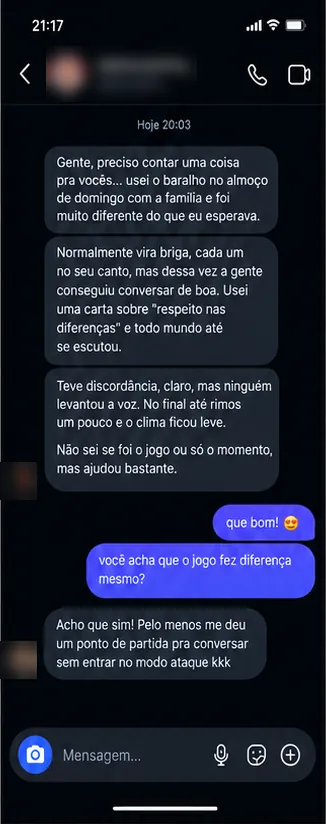
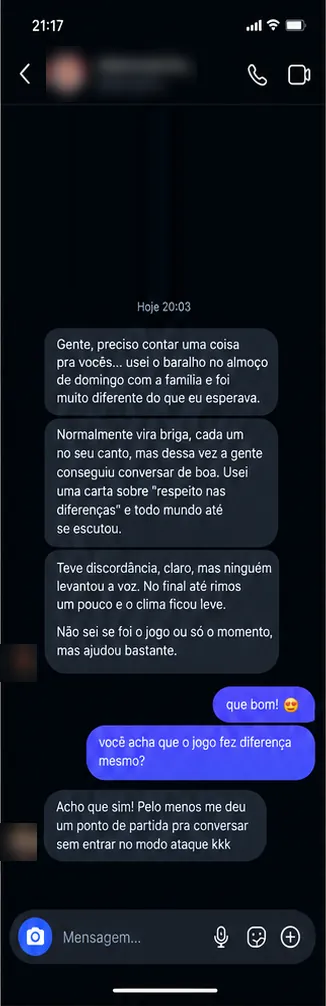
Deixa só 3 prints na seção, todos com a mesma largura
Os prints 1 e 2 ganharam área vazia do chat abaixo do cabeçalho para ficar na
mesma proporção do 3, sem distorcer nem cortar mensagens.

Claude-Session: https://claude.ai/code/session_01HueySAAsoWs1iAqdewjjpw

diff --git a/index.html b/index.html
@@ -15,14 +15,12 @@ details summary::-webkit-details-marker{display:none}
 </style>
 <style>[hidden]{display:none!important}button{-webkit-appearance:none;appearance:none}</style>
 <style>
-.prints{display:flex;gap:16px;overflow-x:auto;scroll-snap-type:x mandatory;-webkit-overflow-scrolling:touch;overscroll-behavior-x:contain;margin:0 -20px;padding:4px 20px 18px;list-style:none;scroll-padding:0 20px;scrollbar-width:thin;scrollbar-color:#16161A transparent}
-.prints>li{flex:0 0 auto;scroll-snap-align:start}
+.prints{display:flex;gap:16px;overflow-x:auto;scroll-snap-type:x mandatory;-webkit-overflow-scrolling:touch;overscroll-behavior-x:contain;margin:0 -20px;padding:4px 20px 18px;list-style:none;scroll-padding:0 20px;scrollbar-width:none}
+.prints::-webkit-scrollbar{display:none}
+.prints>li{flex:0 0 76%;max-width:300px;scroll-snap-align:start}
 .print-card{margin:0;background:#FFFFFF;border:2px solid #16161A;border-radius:16px;box-shadow:5px 5px 0 #16161A;padding:8px}
-.print-card img{display:block;height:clamp(440px,74vh,680px);width:auto;max-width:none;border-radius:10px;background:#0E0E12}
-.prints-nav{display:none;gap:10px}
-.prints-nav button{width:48px;height:48px;border:2px solid #16161A;border-radius:999px;background:#FFFFFF;color:#16161A;font:700 20px/1 'Public Sans',sans-serif;cursor:pointer}
-.prints-nav button:hover{background:#16161A;color:#FFFFFF}
-@media (min-width:760px){.prints{margin:0;padding:4px 6px 18px 0;scroll-padding:0}.prints-nav{display:flex}}
+.print-card img{display:block;width:100%;height:auto;aspect-ratio:267/824;border-radius:10px;background:#0E0E12}
+@media (min-width:760px){.prints{display:grid;grid-template-columns:repeat(3,minmax(0,300px));gap:28px;overflow:visible;margin:0;padding:4px 6px 6px 0}.prints>li{max-width:none}}
 </style>
 </head>
 <body>
@@ -163,19 +161,11 @@ details summary::-webkit-details-marker{display:none}
 <h2 id="exemplos-titulo" style="margin: 0; font-family: 'Archivo', sans-serif; font-weight: 900; font-stretch: 80%; font-size: clamp(30px, 4vw, 44px); text-transform: uppercase; line-height: 1;">É assim que a conversa pode virar</h2>
 <p style="margin: 0; font-size: 18px; color: #3A3A42;">Conversas de exemplo para mostrar o jogo em ação: no almoço de família, no churrasco, com o amigo que só discute.</p>
 </div>
-<div class="prints-nav">
-<button type="button" data-prints="-1" aria-label="Conversa anterior">&larr;</button>
-<button type="button" data-prints="1" aria-label="Próxima conversa">&rarr;</button>
-</div>
 </div>
 <ul class="prints" aria-label="Conversas de exemplo">
-<li><figure class="print-card"><img src="img/depoimentos/print-1.webp" width="341" height="824" loading="lazy" decoding="async" alt="Exemplo de conversa: a pessoa conta que o tio bolsonarista concordou com a frase da carta e só depois viu de quem era, e ficou sem reação."></figure></li>
-<li><figure class="print-card"><img src="img/depoimentos/print-2.webp" width="326" height="824" loading="lazy" decoding="async" alt="Exemplo de conversa: o baralho no almoço de domingo fez a família conversar sem briga, mesmo discordando."></figure></li>
+<li><figure class="print-card"><img src="img/depoimentos/print-1.webp" width="341" height="1052" loading="lazy" decoding="async" alt="Exemplo de conversa: a pessoa conta que o tio bolsonarista concordou com a frase da carta e só depois viu de quem era, e ficou sem reação."></figure></li>
+<li><figure class="print-card"><img src="img/depoimentos/print-2.webp" width="326" height="1006" loading="lazy" decoding="async" alt="Exemplo de conversa: o baralho no almoço de domingo fez a família conversar sem briga, mesmo discordando."></figure></li>
 <li><figure class="print-card"><img src="img/depoimentos/print-3.webp" width="267" height="824" loading="lazy" decoding="async" alt="Exemplo de conversa: a pessoa usou uma carta com um cliente e ele concordou com o ponto, ficando mais receptivo."></figure></li>
-<li><figure class="print-card"><img src="img/depoimentos/print-4.webp" width="261" height="841" loading="lazy" decoding="async" alt="Exemplo de conversa: a pessoa recebeu o baralho, achou bem feito e vai testar com a família no fim de semana."></figure></li>
-<li><figure class="print-card"><img src="img/depoimentos/print-5.webp" width="222" height="841" loading="lazy" decoding="async" alt="Exemplo de conversa: a pessoa usa as cartas com amigos quando o assunto esquenta e a conversa muda na hora."></figure></li>
-<li><figure class="print-card"><img src="img/depoimentos/print-6.webp" width="223" height="841" loading="lazy" decoding="async" alt="Exemplo de conversa: o pai conservador curtiu a ideia da carta antes de saber que era do jogo; não mudou de opinião, mas não virou discussão."></figure></li>
-<li><figure class="print-card"><img src="img/depoimentos/print-7.webp" width="227" height="841" loading="lazy" decoding="async" alt="Exemplo de conversa: no churrasco, uma carta fez o pessoal trocar ideias sem brigar."></figure></li>
 </ul>
 </section>
 
@@ -256,12 +246,6 @@ details summary::-webkit-details-marker{display:none}
 // Link do checkout (Kiwify, Hotmart etc.). Troque pelo seu.
 var CHECKOUT_URL = "https://SEU-CHECKOUT-AQUI";
 document.querySelectorAll('[data-checkout]').forEach(function (a) { a.href = CHECKOUT_URL; });
-var prints = document.querySelector('.prints');
-document.querySelectorAll('[data-prints]').forEach(function (b) {
-  b.addEventListener('click', function () {
-    prints.scrollBy({ left: Number(b.getAttribute('data-prints')) * prints.clientWidth * 0.8, behavior: 'smooth' });
-  });
-});
 var front = document.getElementById('card-front');
 var back = document.getElementById('card-back');
 var label = document.getElementById('answer-label');
